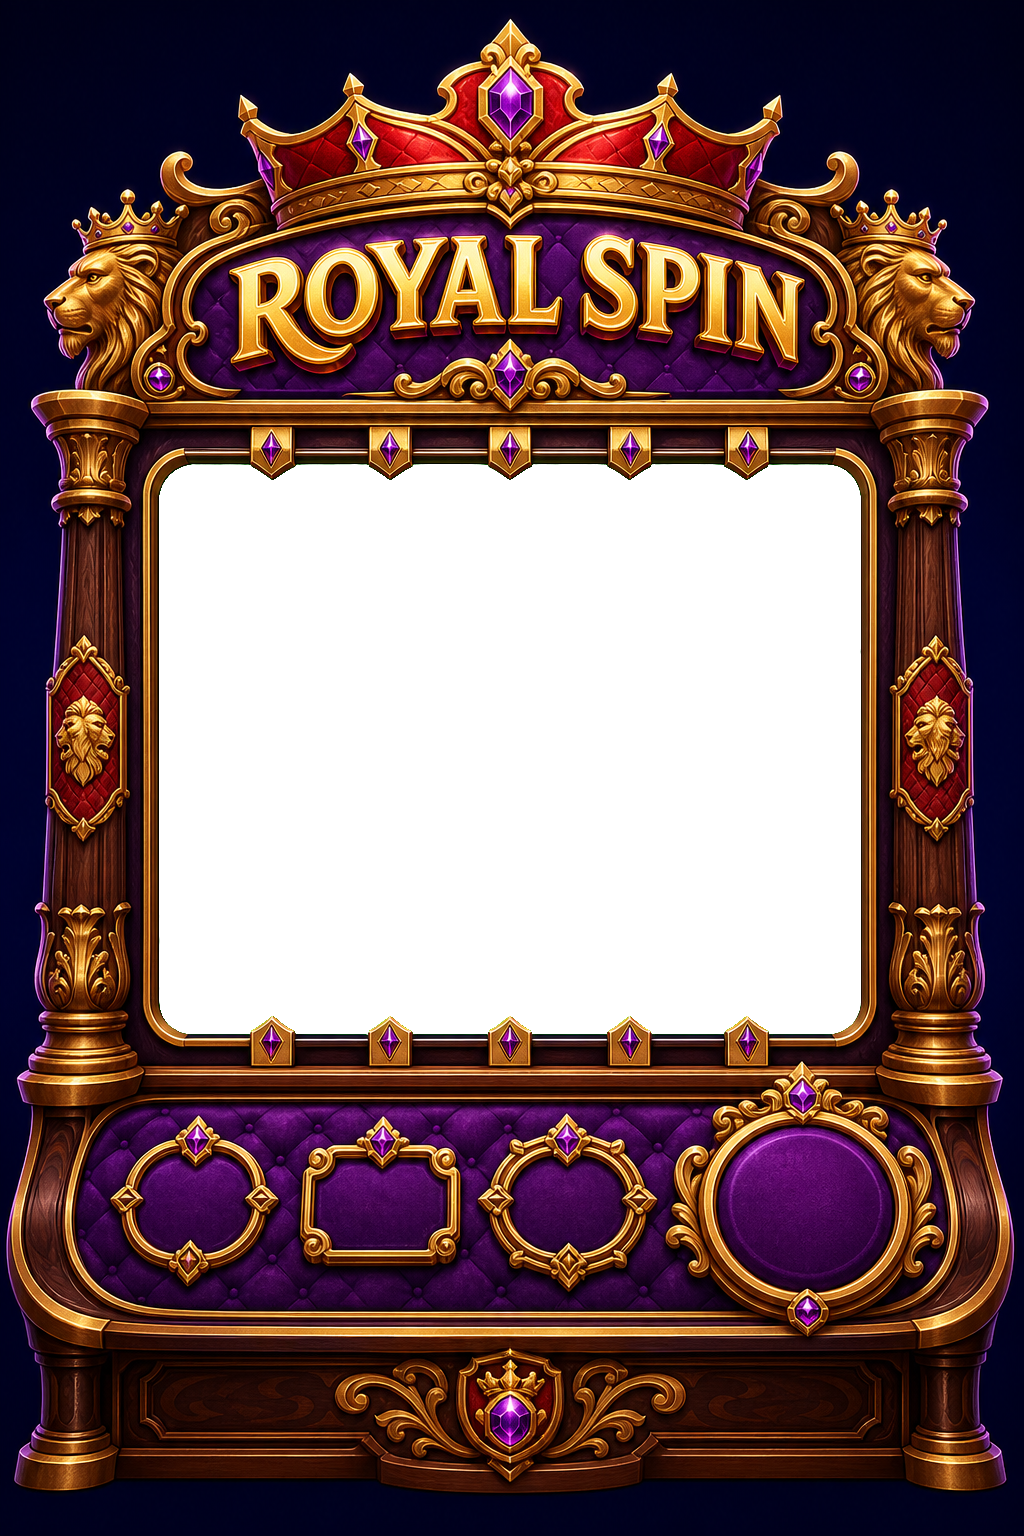
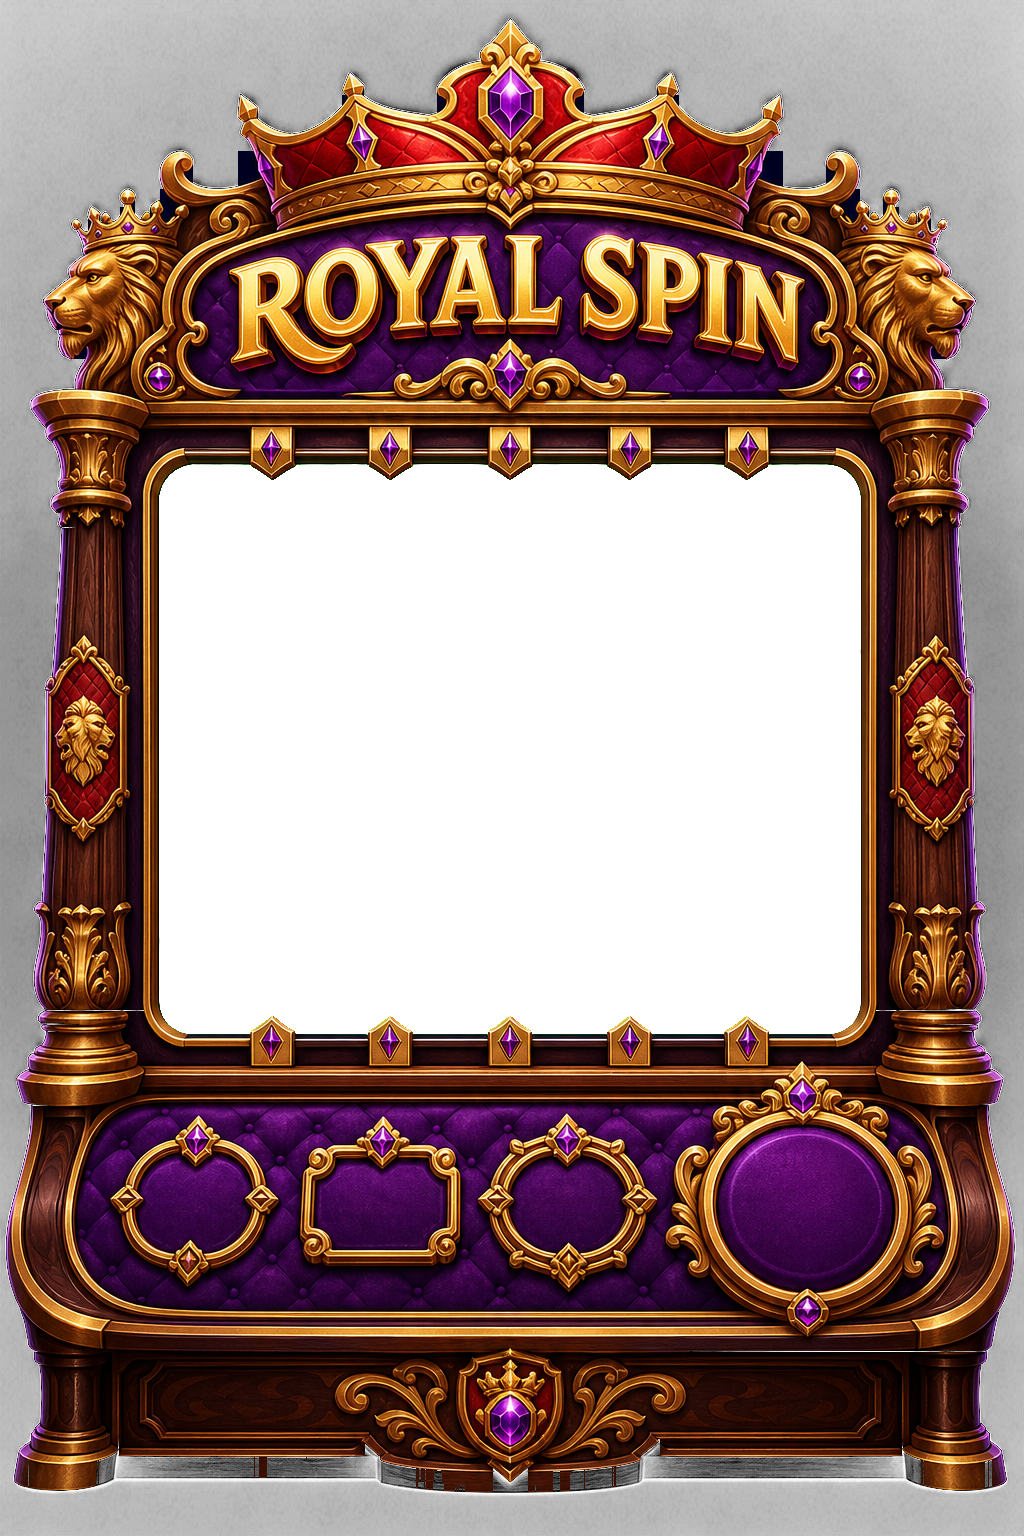
UI: uniform purple, purple spin button, snug three-row grid
Background
  One flat #300040 across the whole app, sampled from the cabinet artwork as its
  most common purple. Two causes of the two-tone look, both fixed:
  a radial gradient that was brighter near the centre of the screen than at the
  edges, and — the real culprit — the dark surround baked into cabinet_frame.png,
  which meant the app background only ever showed in the strip above the machine.
  That surround is now keyed to transparent by scanning inward from each edge, so
  only the contiguous outer region is touched and interior shadows are untouched.
  Alpha fades with brightness, so the drop shadow survives as partial
  transparency rather than a hard cut-out. Lobby matches.

Spin button
  Purple body with a gold rim and gold lettering, so it belongs to the cabinet
  instead of competing with it. Greys out whenever it can't be used — mid-spin or
  out of credits, both already covered by canSpin.

Three-row grid, snug
  visibleRows 3.25 -> 2.7616, which enlarges every symbol by about 18%.

  Not 3.0, which was the first attempt and still showed slivers. The reels are a
  cylinder, so rows above and below centre sit deeper (z = R·cos Δ, not R) and
  perspective shrinks them toward the centre. Three rows therefore project into
  2.76 units of apparent extent, not 3.0, and the 0.24 of slack was exactly the
  gap the next row peeked through. Derived rather than eyeballed: the outer edge
[…]

Changed region(s): [[0.0, 0.0, 1.0, 1.0]]

diff --git a/ios/RoyalSpin/RoyalSpin/UI/ContentView.swift b/ios/RoyalSpin/RoyalSpin/UI/ContentView.swift
@@ -27,8 +27,14 @@ private enum Cab {
     static let imageH = 1536.0
     static var aspect: Double { imageW / imageH }
 
-    /// Exact border colour of the artwork, so the cabinet has no seam on screen.
-    static let backdrop = Color(red: 0x00 / 255.0, green: 0x00 / 255.0, blue: 0x1D / 255.0)
+    /// The artwork's own deep purple, sampled from the cabinet: it is the single
+    /// most common purple in the image at #300040.
+    ///
+    /// Used flat across the entire screen. Previously this was a near-black navy with
+    /// a radial gradient lifting the middle, which is why the strip above the cabinet
+    /// read as a different purple from the area around it — the gradient was simply
+    /// brighter near the centre of the screen than at the edges.
+    static let backdrop = Color(red: 0x30 / 255.0, green: 0x00 / 255.0, blue: 0x40 / 255.0)
     /// Inside the machine, behind the reels.
     static let reelVoid = Color(red: 0x15 / 255.0, green: 0x0A / 255.0, blue: 0x2E / 255.0)
 
@@ -41,13 +47,17 @@ private enum Cab {
         static var w: Double { x1 - x0 }
         static var h: Double { y1 - y0 }
 
-        /// Rows the viewport shows: three full plus a sliver above and below.
+        /// Apparent vertical extent of exactly three rows, in front-plane units.
         ///
-        /// The camera frames a fixed number of symbols, so the vertical extent it
-        /// shows follows from the viewport's aspect ratio. Panels foreshorten as they
-        /// curve away, which is why this isn't simply 3 + 2×sliver — asking for a 20%
-        /// sliver naively produced a 30% one.
-        static let visibleRows = 3.25
+        /// Not 3.0. The reels are a cylinder, so the rows above and below centre sit
+        /// *deeper* than the middle one (z = R·cos Δ rather than R), and perspective
+        /// shrinks them toward the centre. Three rows therefore project into 2.76 units,
+        /// not 3.0 — sizing the viewport to 3.0 leaves 0.24 units of slack, which is
+        /// precisely the gap the next row peeked through.
+        ///
+        /// Derived: the outer edge of row ±1 is at world y = R·sin Δ + ½·cos Δ = 1.470,
+        /// at depth z = 2.117. Solving apparent(E) = E/2 for that point gives E = 2.7616.
+        static let visibleRows = 2.7616
     }
 
     /// A control slot: centre plus usable interior size, both normalised.
@@ -365,27 +375,34 @@ struct MachineView: View {
     private var spinButton: some View {
         Button(action: spin) {
             ZStack {
+                // Purple body with a gold rim, matching the cabinet rather than
+                // competing with it. Greys out whenever the button can't be used —
+                // mid-spin or out of credits — which `canSpin` already covers.
                 Circle()
                     .fill(RadialGradient(
                         colors: game.canSpin
-                            ? [Color(red: 1.00, green: 0.88, blue: 0.48),
-                               Color(red: 0.90, green: 0.56, blue: 0.10),
-                               Color(red: 0.48, green: 0.19, blue: 0.02)]
-                            : [Color(white: 0.34), Color(white: 0.16)],
-                        center: .init(x: 0.32, y: 0.26), startRadius: 1, endRadius: 90))
+                            ? [Color(red: 0.42, green: 0.10, blue: 0.56),
+                               Color(red: 0.28, green: 0.02, blue: 0.38),
+                               Color(red: 0.15, green: 0.00, blue: 0.21)]
+                            : [Color(white: 0.30), Color(white: 0.19), Color(white: 0.12)],
+                        center: .init(x: 0.34, y: 0.28), startRadius: 1, endRadius: 90))
+
                 Circle()
-                    .strokeBorder(
-                        LinearGradient(colors: [.white.opacity(0.6), .clear, .black.opacity(0.35)],
-                                       startPoint: .topLeading, endPoint: .bottomTrailing),
-                        lineWidth: 2.5)
+                    .strokeBorder(game.canSpin
+                                  ? AnyShapeStyle(goldGradient)
+                                  : AnyShapeStyle(Color.white.opacity(0.22)),
+                                  lineWidth: 3)
+
                 Text(game.spinButtonLabel)
                     .font(.system(size: 20, weight: .black, design: .serif))
                     .foregroundStyle(game.canSpin
-                                     ? Color(red: 0.26, green: 0.10, blue: 0)
-                                     : Color.white.opacity(0.35))
+                                     ? AnyShapeStyle(goldGradient)
+                                     : AnyShapeStyle(Color.white.opacity(0.30)))
                     .minimumScaleFactor(0.55)
                     .lineLimit(1)
+                    .multilineTextAlignment(.center)
             }
+            .contentShape(Circle())
             .shadow(color: .black.opacity(0.6), radius: 5, y: 3)
             .scaleEffect(spinPressed ? 0.92 : 1)
         }
@@ -419,12 +436,9 @@ struct MachineView: View {
 
     private var background: some View {
         ZStack {
+            // Flat and uniform. No gradient: any falloff makes the area above the
+            // cabinet a visibly different purple from the area beside it.
             Cab.backdrop.ignoresSafeArea()
-            // A centred radial lift so the space around the cabinet reads as depth
-            // rather than a flat void.
-            RadialGradient(colors: [Color(red: 0.14, green: 0.05, blue: 0.26).opacity(0.8), .clear],
-                           center: .center, startRadius: 40, endRadius: 520)
-                .ignoresSafeArea()
             Color.white.opacity(winFlash ? 0.26 : 0)
                 .ignoresSafeArea().allowsHitTesting(false)
         }

diff --git a/ios/RoyalSpin/RoyalSpin/Core/SlotMath.swift b/ios/RoyalSpin/RoyalSpin/Core/SlotMath.swift
@@ -194,18 +194,23 @@ public enum Paytable {
             case .crown:     return 322
             case .royalSeal: return 0
             }
+        // The Shield stops paying. It is the single most common symbol, so removing
+        // it alone takes roughly a fifth of all winning combinations off the table —
+        // which is what separates this tier from Gentle. Previously Classic paid on
+        // exactly the same symbols as Gentle and merely paid less, so the two had an
+        // identical hit rate and only one of them was a distinct game.
         case .classic:
             switch symbol {
-            case .shield:    return 2
+            case .shield:    return 0
             case .chalice:   return 3
             case .sceptre:   return 4
             case .joker:     return 8
-            case .knight:    return 10
-            case .princess:  return 17
-            case .prince:    return 23
-            case .queen:     return 36
-            case .king:      return 54
-            case .crown:     return 352
+            case .knight:    return 11
+            case .princess:  return 18
+            case .prince:    return 24
+            case .queen:     return 37
+            case .king:      return 56
+            case .crown:     return 366
             case .royalSeal: return 0
             }
         // The three low symbols pay nothing. They're also the most common, so that

diff --git a/ios/RoyalSpin/RoyalSpin/Game/ReelScene.swift b/ios/RoyalSpin/RoyalSpin/Game/ReelScene.swift
@@ -47,8 +47,17 @@ enum ReelTuning {
     /// needs it to decide which axis is the binding constraint.
     static let windowAspect: Double = 702.0 / 569.0
 
-    /// Rows of symbols the viewport shows: three full, plus a sliver above and below.
-    static let visibleRows: Double = 3.25
+    /// Apparent vertical extent of exactly three rows, in front-plane units.
+    ///
+    /// Not 3.0. The reels are a cylinder, so the rows above and below centre sit
+    /// *deeper* than the middle one (z = R·cos Δ rather than R), and perspective
+    /// shrinks them toward the centre. Three rows therefore project into 2.76 units,
+    /// not 3.0 — sizing the viewport to 3.0 leaves 0.24 units of slack, which is
+    /// precisely the gap the next row peeked through.
+    ///
+    /// Derived: the outer edge of row ±1 is at world y = R·sin Δ + ½·cos Δ = 1.470,
+    /// at depth z = 2.117. Solving apparent(E) = E/2 for that point gives E = 2.7616.
+    static let visibleRows: Double = 2.7616
 
     // Shape follows the spec in assets/symbols/README.md — accelerate, cruise,
     // staggered left-to-right stop, ease into the predetermined index, overshoot and

diff --git a/ios/RoyalSpin/RoyalSpin/UI/Lobby.swift b/ios/RoyalSpin/RoyalSpin/UI/Lobby.swift
@@ -287,7 +287,9 @@ private struct MachineCard: View {
 }
 
 enum LobbyStyle {
-    static let backdrop = Color(red: 0x00 / 255.0, green: 0x00 / 255.0, blue: 0x1D / 255.0)
+    /// Same deep purple as the machine screen — sampled from the cabinet artwork
+    /// (#300040), so moving between lobby and machine has no colour shift.
+    static let backdrop = Color(red: 0x30 / 255.0, green: 0x00 / 255.0, blue: 0x40 / 255.0)
     static let gold = LinearGradient(
         colors: [Color(red: 1.0, green: 0.94, blue: 0.66),
                  Color(red: 0.95, green: 0.76, blue: 0.28),
